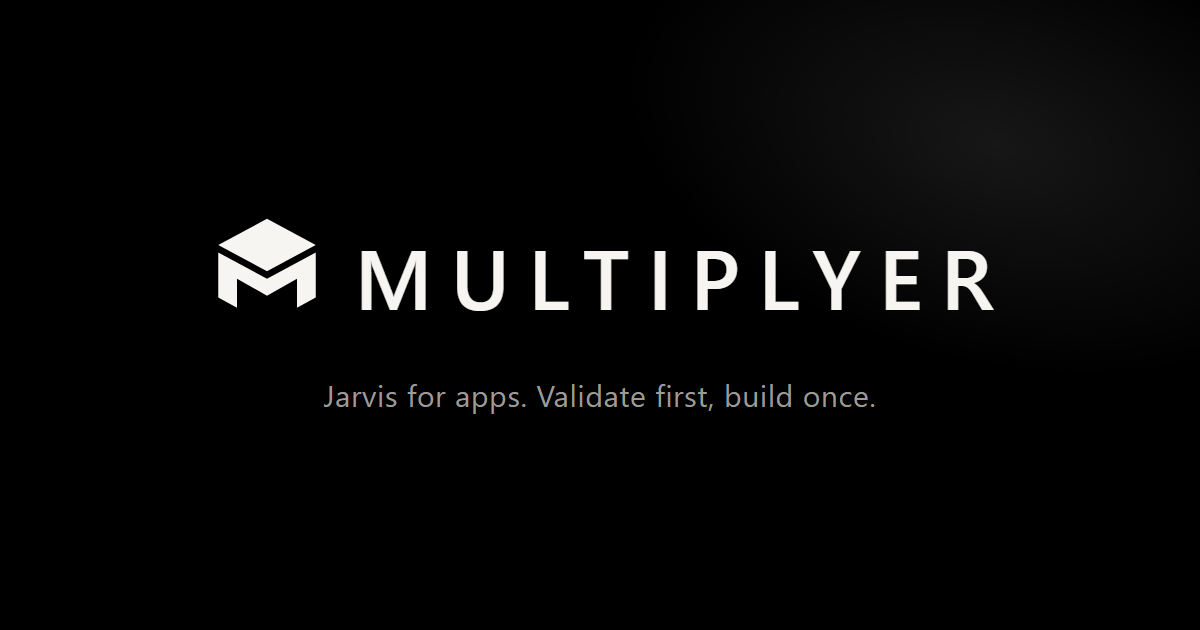
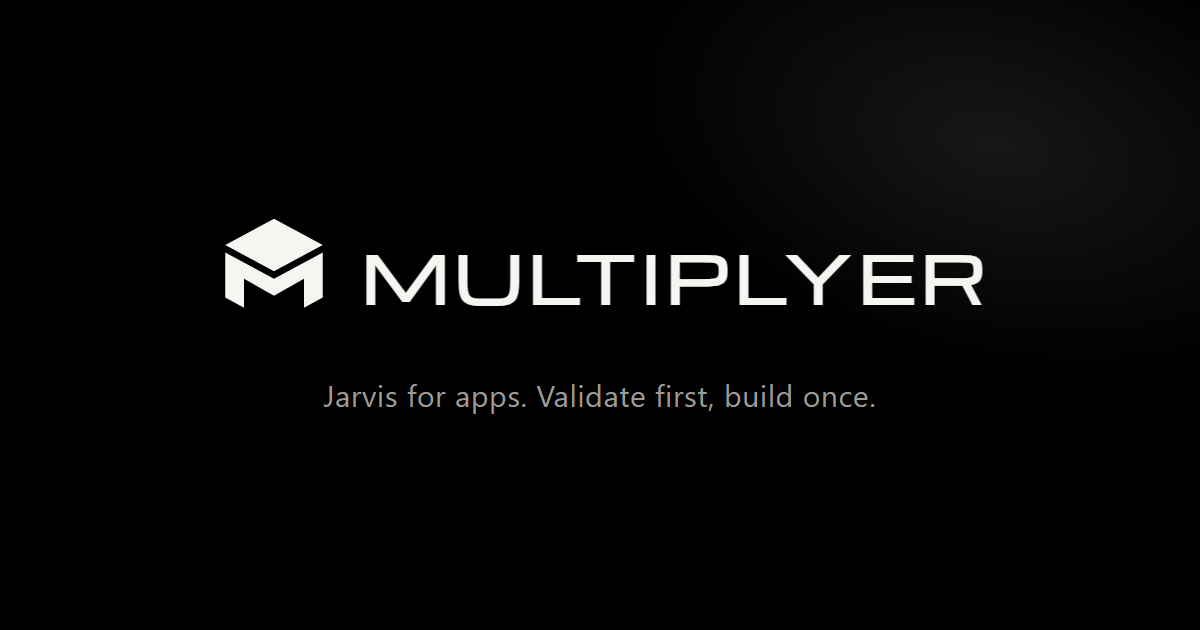
Rebrand: the lockup's engineered face carries the whole identity
The Multiplyer lockup is set in a Eurostile-Extended-style face;
Michroma is the licensed equivalent of those letterforms, now loaded
via next/font as the brand voice. A .brand class (uppercase, wide by
construction) replaces the sans display on every marketing heading —
hero, features, film, pricing, FAQ, closing CTA, download page — plus
the scroll marquee and every wordmark: site nav, footer, app header,
onboarding. Sizes step down roughly a third everywhere because the
face is wide; the app's working surfaces keep the quiet sans, since a
workspace is not a poster, and the workspace mocks inside the site
keep looking like the app.

The OG card is re-rendered in the real face, with a slight stroke to
match the lockup's bold cut (Michroma ships one weight).

Changed region(s): [[0.1542, 0.3619, 0.8325, 0.5127], [0.2158, 0.3317, 0.2467, 0.3619]]

diff --git a/electron/main.js b/electron/main.js
@@ -18,6 +18,14 @@ const path = require("node:path");
 
 const isDev = !app.isPackaged;
 
+/**
+ * Dev-only simulated mode: MULTIPLYER_MOCK points at a local stand-in for the
+ * Anthropic API (see scratchpad mock). Skips key onboarding and routes the
+ * server's SDK at the mock, so the whole app can be exercised with no key.
+ * Ignored in packaged builds — a shipped binary never mocks.
+ */
+const mockBaseUrl = isDev ? process.env.MULTIPLYER_MOCK || "" : "";
+
 /** Where the prepared standalone bundle lives in each mode. */
 function serverDir() {
   return isDev
@@ -147,7 +155,8 @@ async function startServer() {
       NODE_ENV: "production",
       PORT: String(serverPort),
       HOSTNAME: "127.0.0.1",
-      ANTHROPIC_API_KEY: loadApiKey(),
+      ANTHROPIC_API_KEY: mockBaseUrl ? "mock-key" : loadApiKey(),
+      ...(mockBaseUrl ? { ANTHROPIC_BASE_URL: mockBaseUrl } : {}),
       // Lets the app tailor its "no key" message to the desktop flow.
       MULTIPLYER_DESKTOP: "1",
     },
@@ -372,11 +381,14 @@ if (!singleInstance) {
       return;
     }
     // First run (no key yet) opens onboarding; every later run opens the app.
-    createMainWindow(loadApiKey() ? "/app" : "/welcome");
+    // Simulated mode needs no key, so it goes straight in.
+    const entryPath = () =>
+      mockBaseUrl || loadApiKey() ? "/app" : "/welcome";
+    createMainWindow(entryPath());
 
     app.on("activate", () => {
       if (BrowserWindow.getAllWindows().length === 0) {
-        createMainWindow(loadApiKey() ? "/app" : "/welcome");
+        createMainWindow(entryPath());
       }
     });
   });

diff --git a/app/download/page.tsx b/app/download/page.tsx
@@ -67,7 +67,7 @@ function ReleaseBlock({ release, latest }: { release: Release; latest: boolean }
   return (
     <section className="border-t border-edge pt-8">
       <div className="flex items-center gap-3">
-        <h2 className="display text-[1.5rem] text-chalk">
+        <h2 className="brand text-[1.15rem] text-chalk">
           {release.tag_name.replace(/^v/, "")}
         </h2>
         {latest && (
@@ -128,7 +128,7 @@ export default async function DownloadPage() {
         <div className="mx-auto max-w-[68rem]">
           {/* Cursor-style top: headline, then the one surface we ship —
               a Desktop card with the product in it and the button below. */}
-          <h1 className="display max-w-[22ch] text-[1.75rem] text-chalk sm:text-[2.25rem]">
+          <h1 className="brand max-w-[24ch] text-[1.3rem] text-chalk sm:text-[1.7rem]">
             Use Multiplyer where you build.
           </h1>
           <p className="mt-3 text-[15px] text-chalk-soft">
@@ -149,7 +149,7 @@ export default async function DownloadPage() {
           </div>
 
           {/* Scroll: every installer, per release. */}
-          <h2 className="mt-24 text-[15px] font-medium text-chalk-soft">
+          <h2 className="brand mt-24 text-[0.95rem] text-chalk-soft">
             All downloads
           </h2>
 

diff --git a/components/marketing/Features.tsx b/components/marketing/Features.tsx
@@ -279,7 +279,7 @@ export default function Features() {
     <section id="features" className="scroll-mt-28 px-6 py-14 sm:px-10">
       <div className="mx-auto max-w-[68rem]">
         <div className="mb-16 text-center">
-          <h2 className="display mx-auto max-w-[20ch] text-[2rem] sm:text-[3rem]">
+          <h2 className="brand mx-auto max-w-[24ch] text-[1.5rem] sm:text-[2.2rem]">
             What can Multiplyer do for you?
           </h2>
           <p className="mx-auto mt-4 max-w-[52ch] text-[15px] leading-[1.6] text-chalk-soft">
@@ -304,7 +304,7 @@ export default function Features() {
                     className="group/row block w-full py-6 text-left"
                   >
                     <h3
-                      className={`display flex items-center gap-3 text-[1.5rem] transition-colors duration-300 sm:text-[1.9rem] ${
+                      className={`brand flex items-center gap-3 text-[1.05rem] transition-colors duration-300 sm:text-[1.35rem] ${
                         isActive
                           ? "text-chalk"
                           : "text-chalk-faint group-hover/row:text-chalk"

diff --git a/app/layout.tsx b/app/layout.tsx
@@ -1,5 +1,5 @@
 import type { Metadata } from "next";
-import { Geist, Geist_Mono } from "next/font/google";
+import { Geist, Geist_Mono, Michroma } from "next/font/google";
 import "./globals.css";
 
 const geistSans = Geist({
@@ -9,6 +9,17 @@ const geistSans = Geist({
 
 const geistMono = Geist_Mono({
   variable: "--font-geist-mono",
+  subsets: ["latin"],
+});
+
+/**
+ * Brand face. The Multiplyer lockup is set in a Eurostile-Extended-style
+ * engineered face; Michroma is the licensed equivalent of those letterforms.
+ * One weight exists (400) — presence comes from size and tracking.
+ */
+const michroma = Michroma({
+  variable: "--font-brand",
+  weight: "400",
   subsets: ["latin"],
 });
 
@@ -68,7 +79,7 @@ export default function RootLayout({
   return (
     <html
       lang="en"
-      className={`${geistSans.variable} ${geistMono.variable} h-full antialiased`}
+      className={`${geistSans.variable} ${geistMono.variable} ${michroma.variable} h-full antialiased`}
     >
       <body className="min-h-full flex flex-col">{children}</body>
     </html>

diff --git a/app/globals.css b/app/globals.css
@@ -100,6 +100,19 @@ body {
   line-height: 1.04;
 }
 
+/* The brand voice: the engineered wide face from the lockup, always
+   uppercase. Applied to marketing headings and wordmarks explicitly — never
+   blanket-applied, because the workspace mocks inside the site must keep
+   looking like the app, and the app itself is a workspace, not a poster.
+   Wide by construction, so sizes step down wherever it replaces the sans. */
+.brand {
+  font-family: var(--font-brand), var(--font-geist-sans), sans-serif;
+  font-weight: 400;
+  text-transform: uppercase;
+  letter-spacing: 0.05em;
+  line-height: 1.18;
+}
+
 /* All metadata, paths, counts and stage labels are mono. */
 .label {
   font-family: var(--font-geist-mono), ui-monospace, monospace;

diff --git a/components/marketing/Mark.tsx b/components/marketing/Mark.tsx
@@ -51,11 +51,10 @@ export default function Mark({
   return (
     <span className={`flex items-center gap-2.5 ${className}`}>
       <MarkGlyph size={size} />
-      {/* Uppercase and tracked wide, matching the lockup's engineered look. */}
+      {/* The lockup's own face — Michroma carries the engineered look, so
+          the tracking does less work than the placeholder needed. */}
       {wordmark && (
-        <span className="text-[12.5px] font-semibold uppercase tracking-[0.22em]">
-          Multiplyer
-        </span>
+        <span className="brand text-[11px] tracking-[0.14em]">Multiplyer</span>
       )}
     </span>
   );

diff --git a/components/marketing/TextScroll.tsx b/components/marketing/TextScroll.tsx
@@ -66,7 +66,7 @@ export default function TextScroll() {
             ref={(el) => {
               rowRefs.current[i] = el;
             }}
-            className="display flex w-max whitespace-nowrap text-[17vw] leading-[0.98] tracking-[-0.02em] uppercase will-change-transform sm:text-[9.5rem]"
+            className="brand flex w-max whitespace-nowrap text-[14vw] leading-[1.02] will-change-transform sm:text-[7.25rem]"
           >
             {Array.from({ length: COPIES * 2 }, (_, k) => (
               <span

diff --git a/components/marketing/Hero.tsx b/components/marketing/Hero.tsx
@@ -21,7 +21,7 @@ export default function Hero() {
   return (
     <section className="relative px-6 pb-14 pt-36 sm:px-10 sm:pt-40">
       <div className="mx-auto max-w-[62rem] text-center">
-        <h1 className="display mx-auto max-w-[15ch] text-[2.75rem] text-chalk sm:text-[4.5rem]">
+        <h1 className="brand mx-auto max-w-[17ch] text-[1.9rem] text-chalk sm:text-[3.4rem]">
           {HEADLINE.map((word, i) => (
             <span key={i} className="hero-word" style={at(1 + i)}>
               {word}

diff --git a/components/marketing/Pricing.tsx b/components/marketing/Pricing.tsx
@@ -91,7 +91,7 @@ export default function Pricing() {
     <section id="pricing" className="relative scroll-mt-28 px-6 py-14 sm:px-10">
       <div className="relative mx-auto max-w-[68rem]">
         <div className="text-center">
-          <h2 className="display mx-auto text-[1.75rem] sm:text-[2.5rem]">
+          <h2 className="brand mx-auto text-[1.3rem] sm:text-[1.9rem]">
             Pricing
           </h2>
           <p className="mx-auto mt-4 text-[14.5px] text-chalk-soft">

diff --git a/app/welcome/page.tsx b/app/welcome/page.tsx
@@ -81,9 +81,7 @@ export default function Welcome() {
       <div className="w-full max-w-[30rem]">
         <div className="flex items-center gap-2.5">
           <MarkGlyph size={22} className="text-ink" />
-          <span className="text-[14px] font-medium tracking-tight text-ink">
-            Multiplyer
-          </span>
+          <span className="brand text-[11.5px] text-ink">Multiplyer</span>
         </div>
 
         <h1 className="display mt-6 text-[1.75rem] text-ink">

diff --git a/components/marketing/Faq.tsx b/components/marketing/Faq.tsx
@@ -35,7 +35,7 @@ export default function Faq() {
     <section id="faq" className="scroll-mt-28 px-6 py-14 sm:px-10">
       <div className="mx-auto max-w-[46rem]">
         <div className="text-center">
-          <h2 className="display mx-auto text-[1.75rem] sm:text-[2.5rem]">
+          <h2 className="brand mx-auto text-[1.3rem] sm:text-[1.9rem]">
             Questions, answered plainly.
           </h2>
         </div>

diff --git a/components/marketing/Film.tsx b/components/marketing/Film.tsx
@@ -336,7 +336,7 @@ export default function Film() {
       <div className="mx-auto max-w-[62rem]">
         <div className="text-center">
           <p className="label">Product film</p>
-          <h2 className="display mx-auto mt-3 text-[1.75rem] sm:text-[2.5rem]">
+          <h2 className="brand mx-auto mt-3 text-[1.3rem] sm:text-[1.9rem]">
             See Multiplyer in action
           </h2>
         </div>
